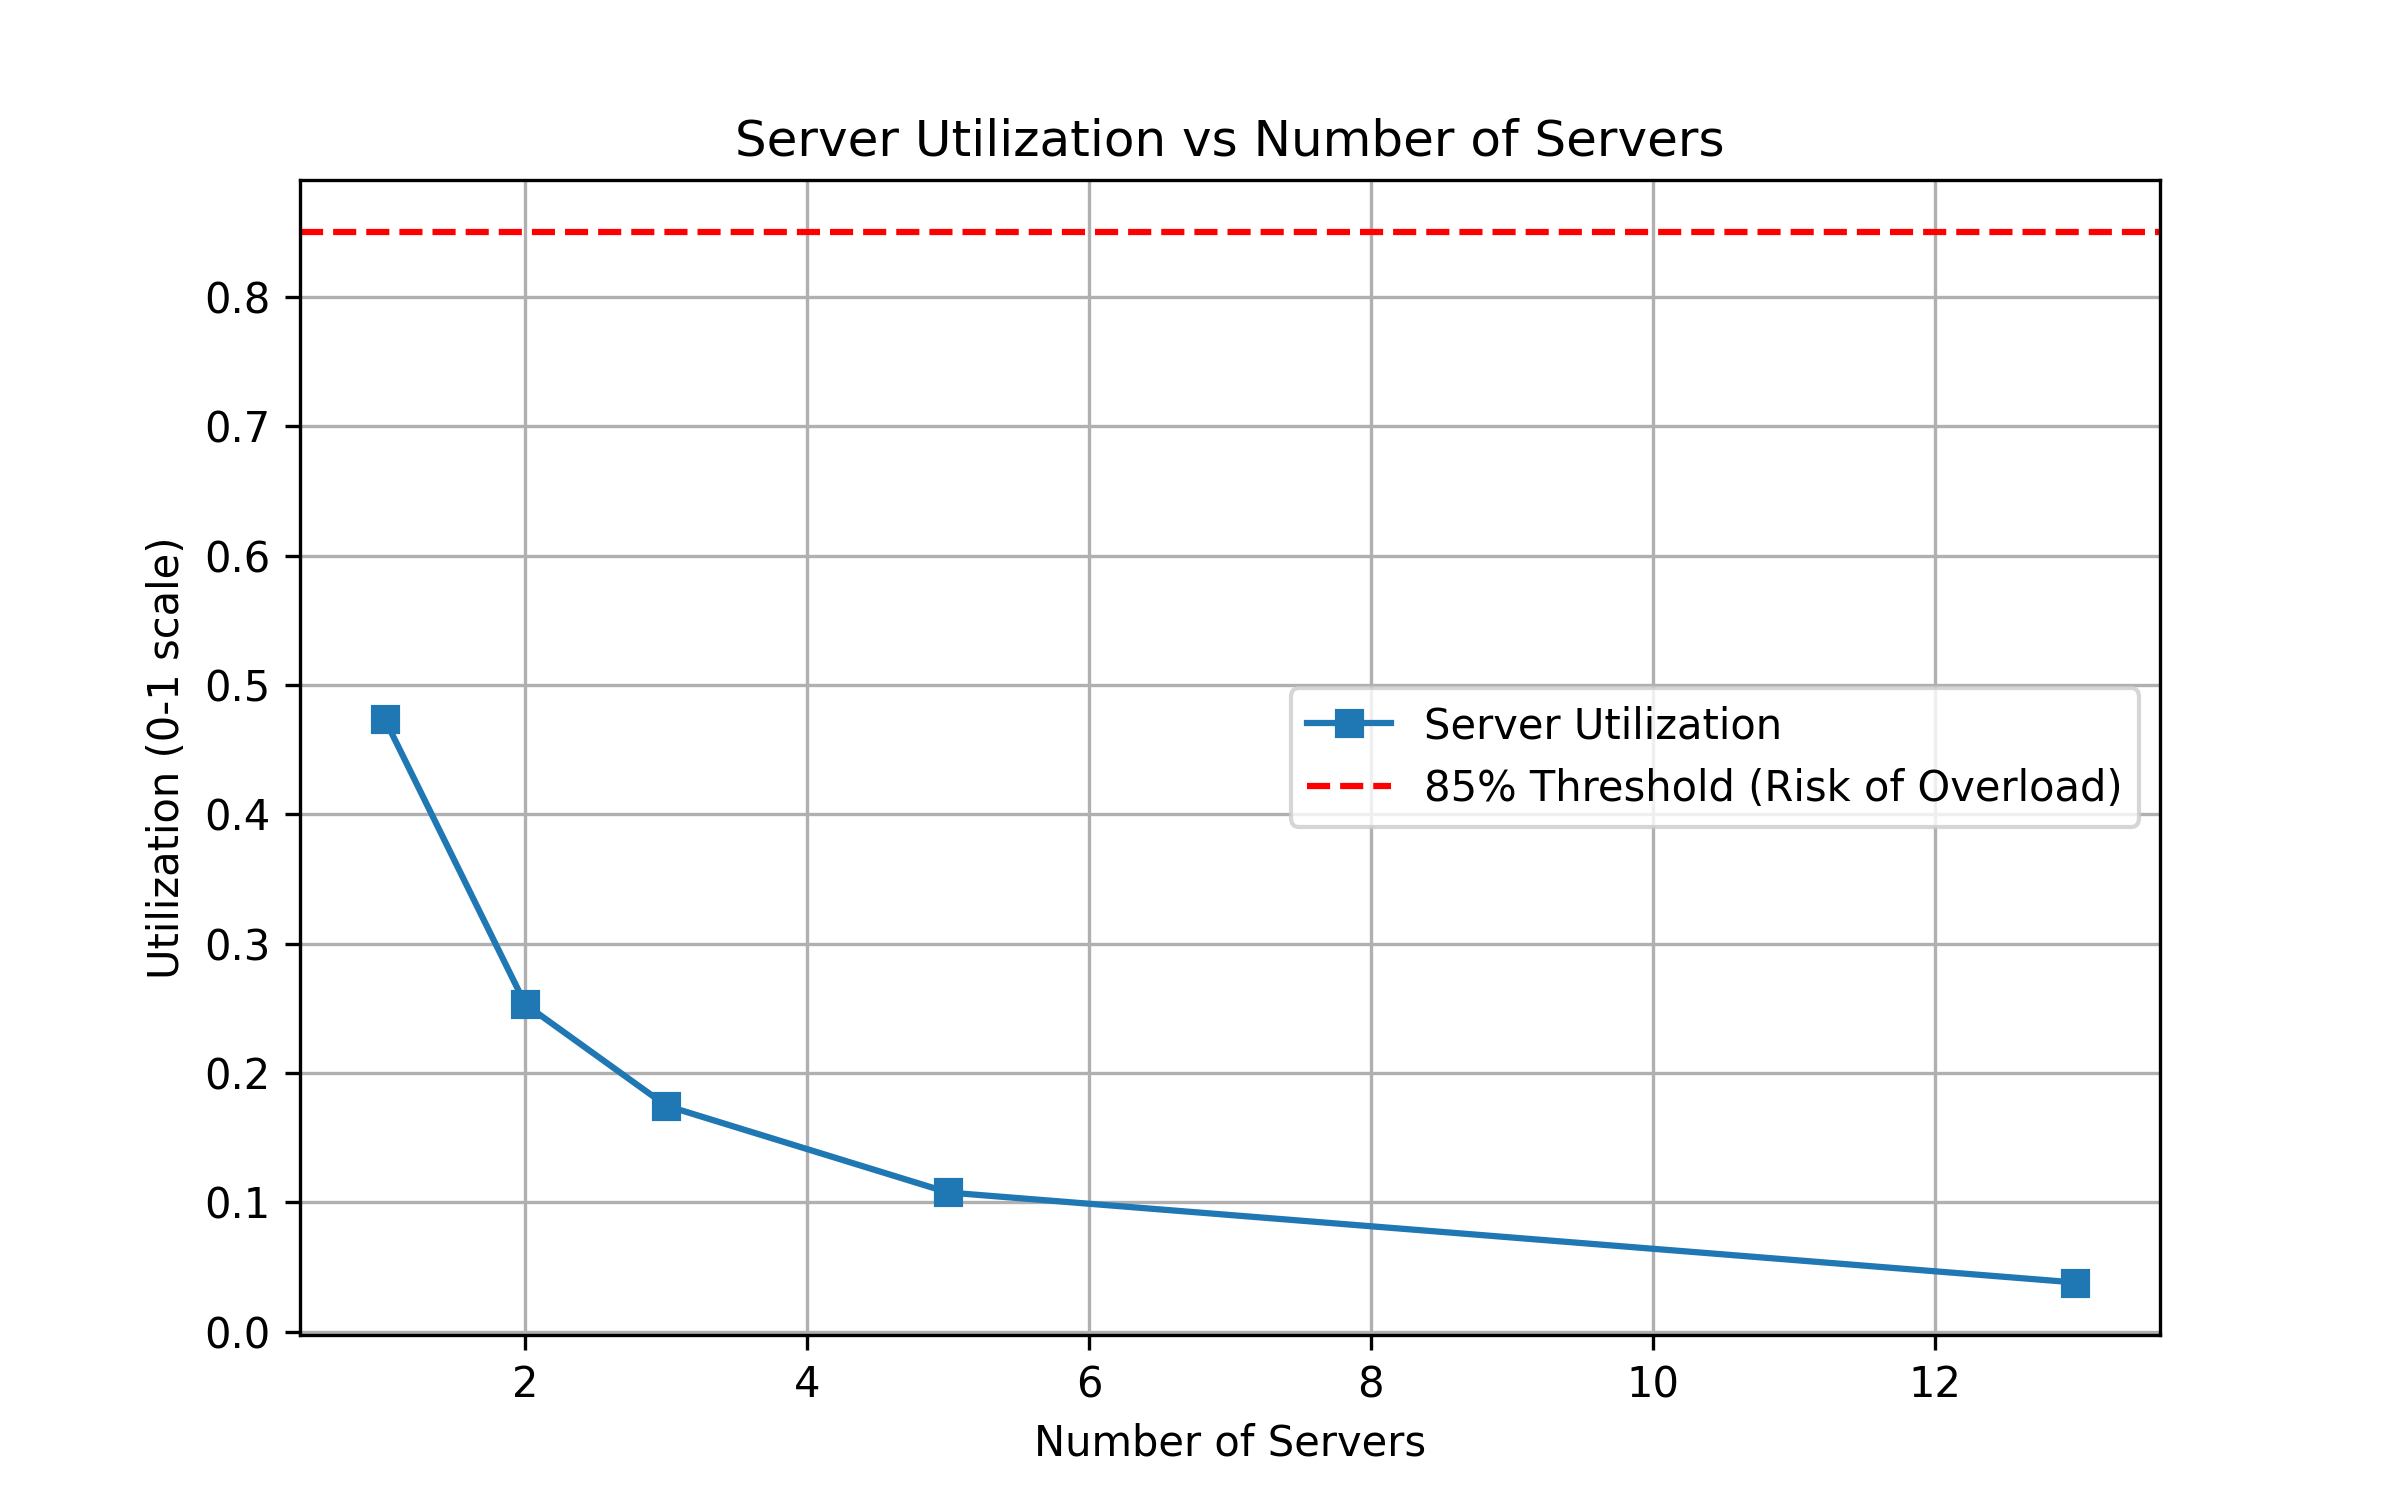
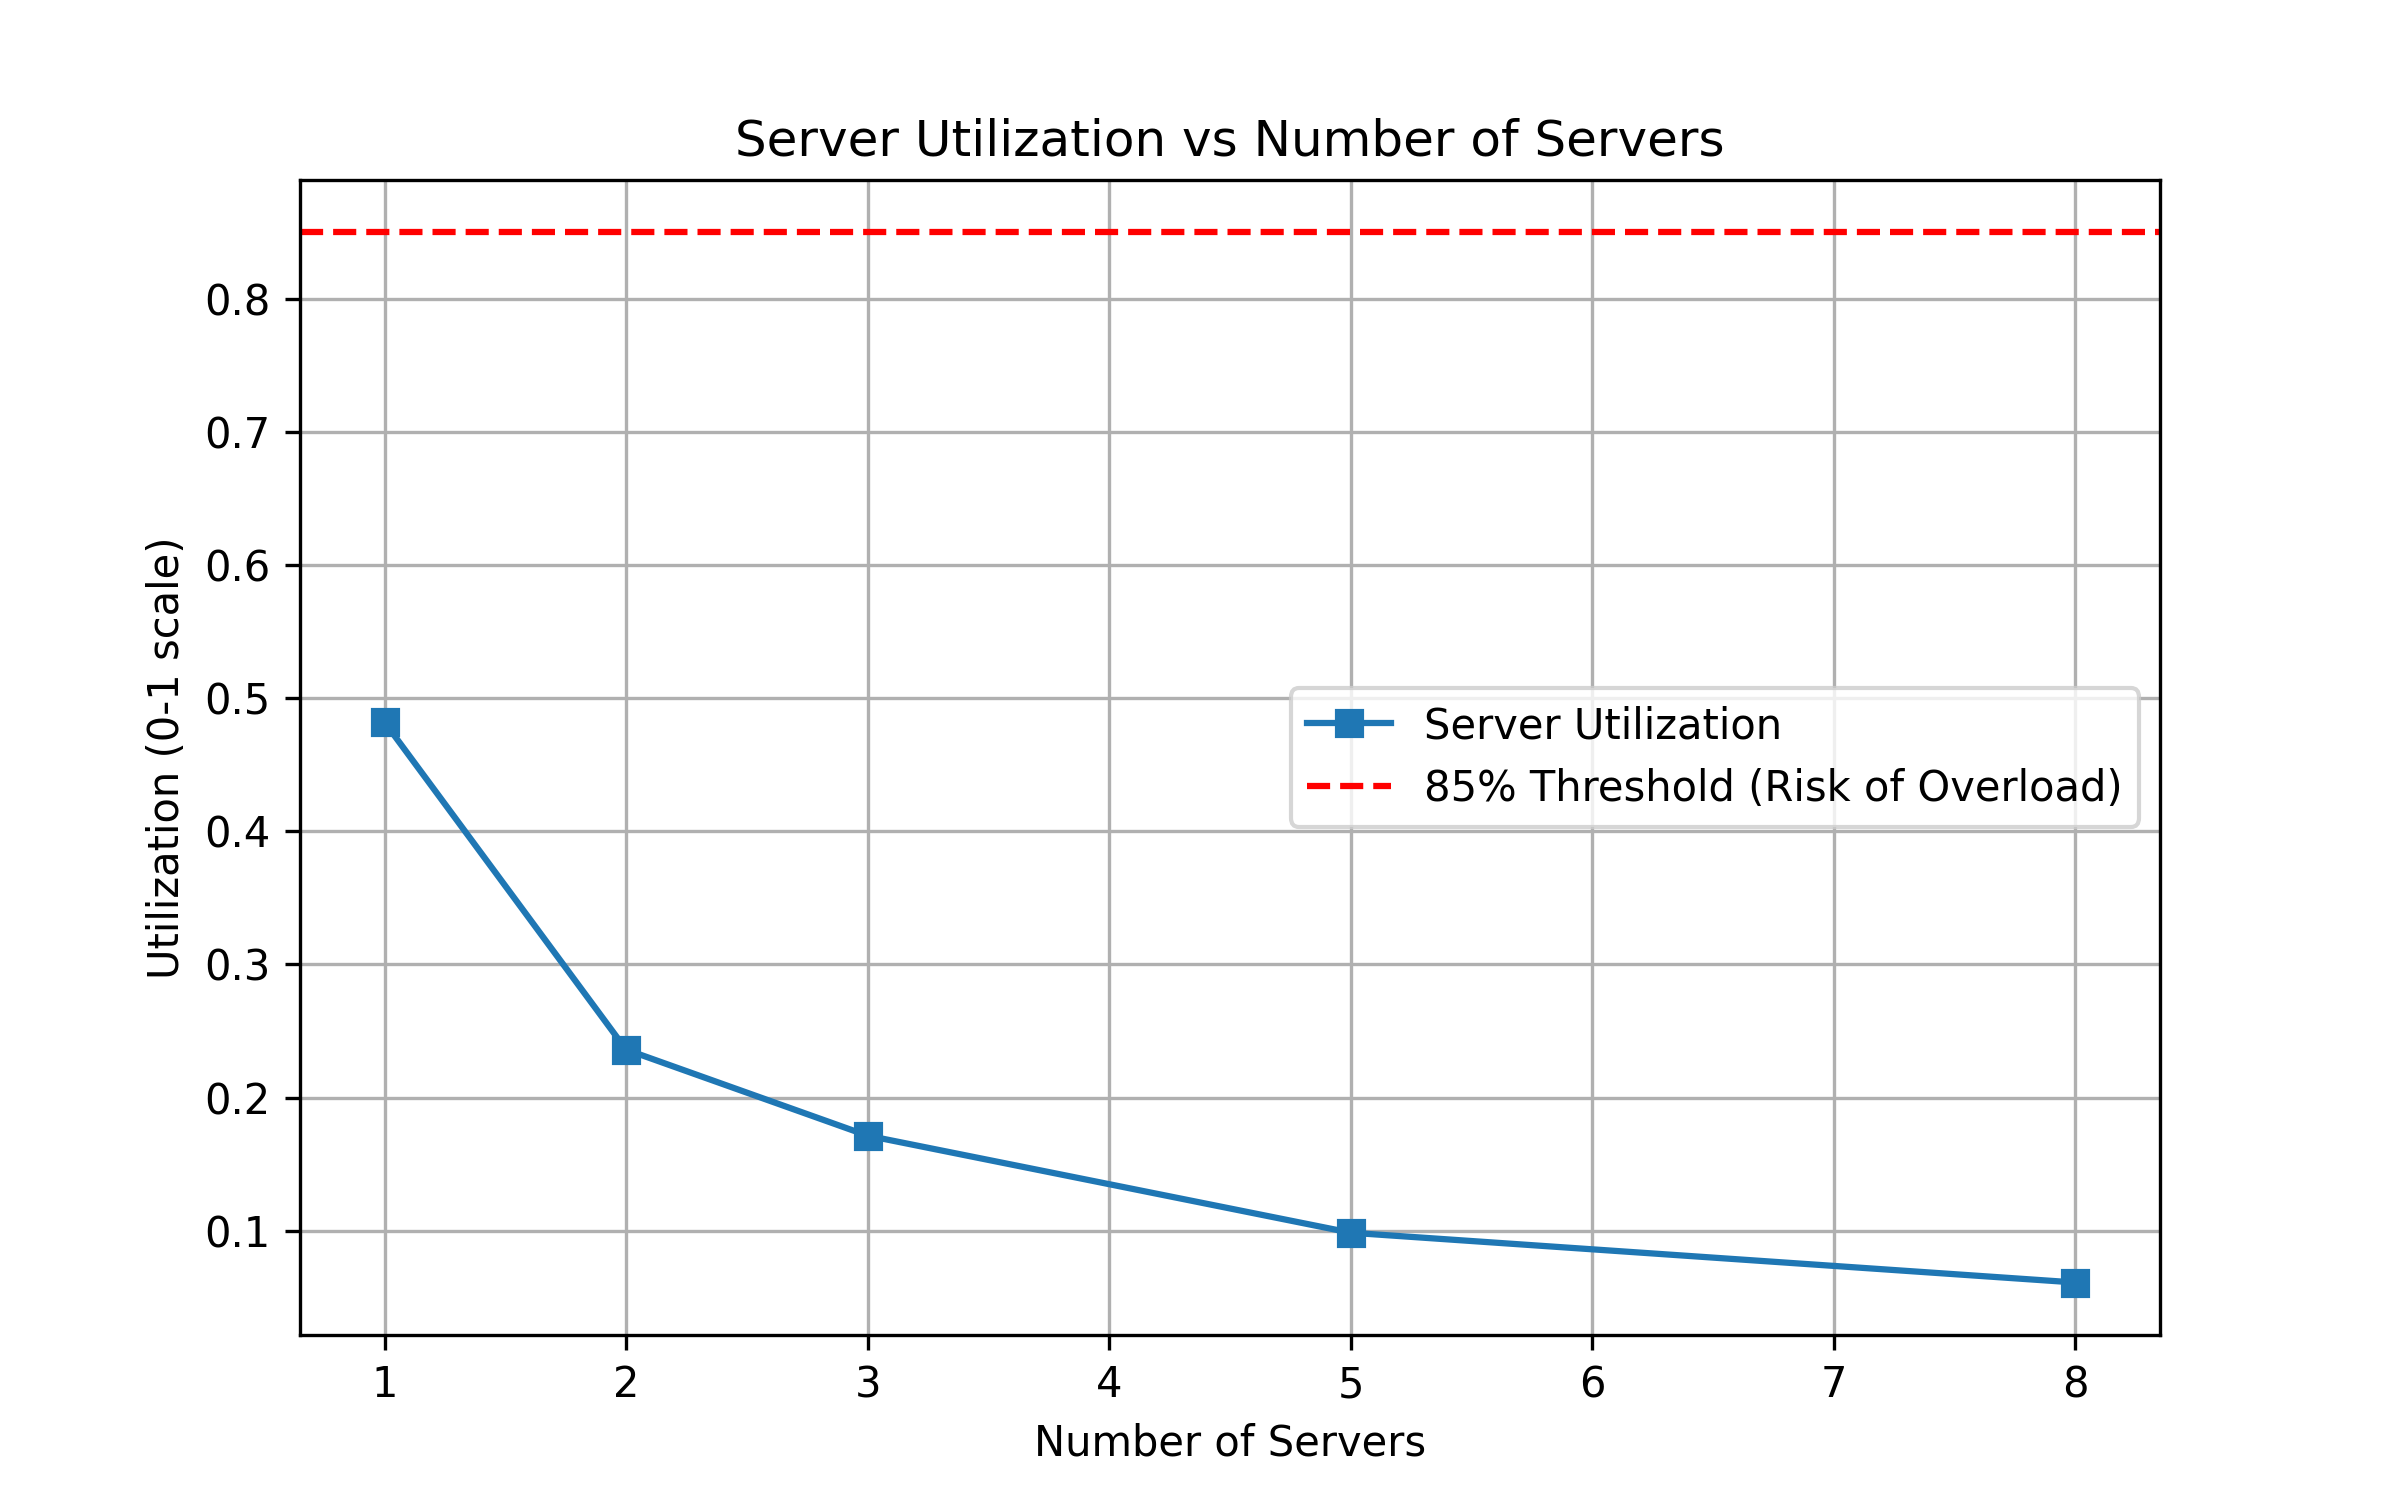
...

diff --git a/ticketbookingsystem.py b/ticketbookingsystem.py
@@ -9,16 +9,16 @@ dropped_threshold = 0.5
 
 class TicketBookingSystem:
     def __init__(self, env, num_servers):
-        self.env = env
-        self.server = simpy.Resource(env, num_servers)
-        self.response_times = []
-        self.total_busy_time = 0  
-        self.dropped_requests = 0  
+        self.env = env # simpy environment to manage events
+        self.server = simpy.Resource(env, num_servers) # ticket booking servers
+        self.response_times = [] # stores response time for processed requests
+        self.total_busy_time = 0  # tracks total time servers are busy
+        self.dropped_requests = 0  # counts the number of dropped requests due to long wait time
 
     def process_request(self, request_id):
-        arrival_time = self.env.now  
-        with self.server.request() as request:
-            yield request  
+        arrival_time = self.env.now # records the arrival time of requests
+        with self.server.request() as request: # the request waits in line until a server is available
+            yield request 
             wait_time = self.env.now - arrival_time  
 
             if wait_time > dropped_threshold:
@@ -52,7 +52,7 @@ def run_simulation(num_servers):
         "dropped_requests": system.dropped_requests
     }
 
-server_counts = [1, 2, 3, 5, 13]
+server_counts = [1, 2, 3, 5, 8]
 results = {}
 
 for servers in server_counts:
